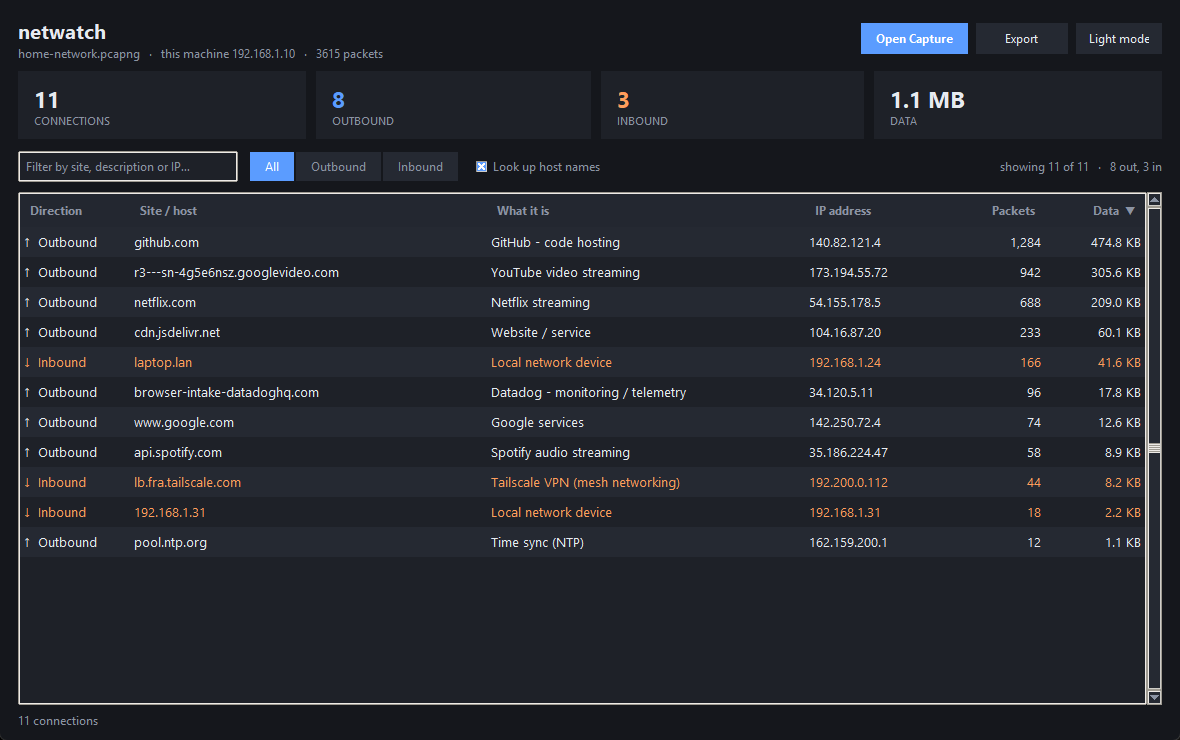
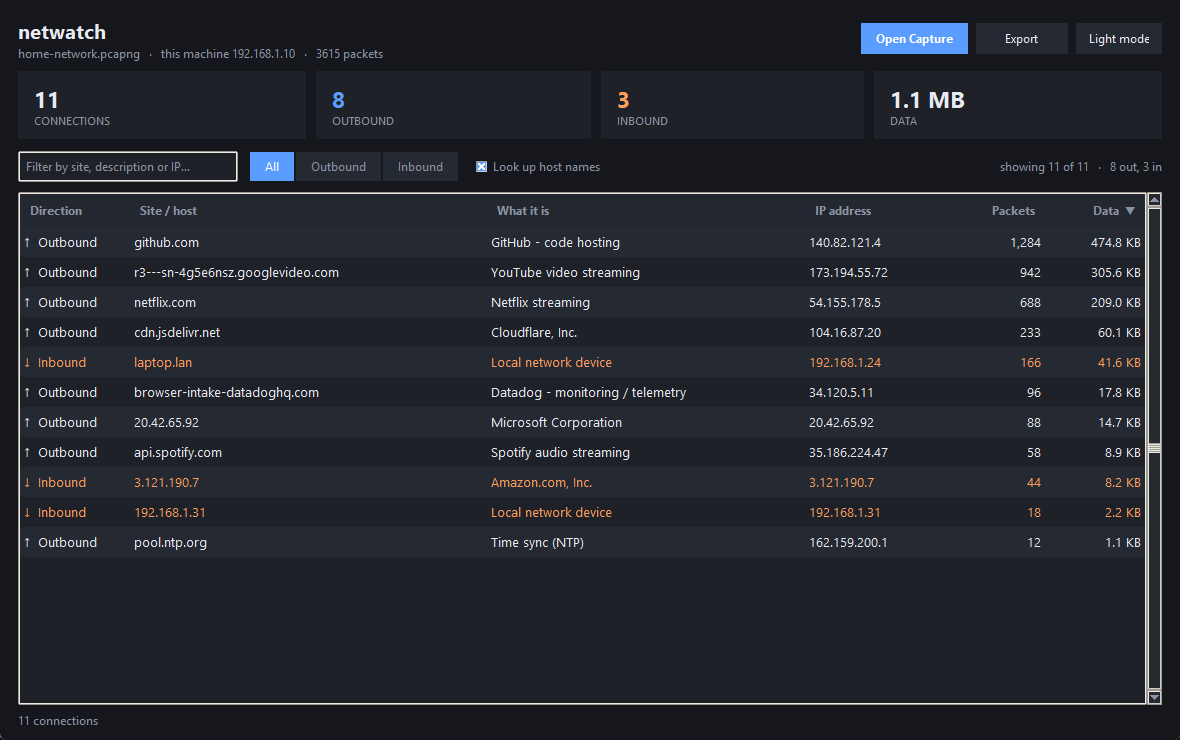
Name the organisation behind an address, via ASN lookup
The curated keyword table only recognises hosts someone thought to list,
and only when a hostname exists at all. Addresses with no useful name and
no PTR record read "Unknown host", which on a real capture was five rows
of thirteen -- including the one moving the most data.

asn_lookup.py resolves the owning organisation from an ASN database:

    160.79.104.10  -> Anthropic, PBC
    74.125.9.138   -> Google LLC
    20.42.65.92    -> Microsoft Corporation

On the sample capture this takes "Unknown host" from five rows to none.
It also improves hosts that did have names but no keyword match, where
the old fallback was the unhelpful "Website / service": catalog.gamepass.com
turns out to be Akamai, cdn.jsdelivr.net to be Cloudflare.

The keyword table still takes precedence, because it says what a host is
*for* -- "Datadog - monitoring / telemetry" beats the name of whoever owns
the address range.

Lookups are local, so no address leaves the machine and it works with no
network, which matters for an appliance. maxminddb and the database are
both optional: without either, descriptions fall back to exactly what they
were before, with a status message explaining how to enable them. The
database is git-ignored, since neither publisher permits redistribution --
`asn_lookup.py --fetch` downloads one. DB-IP's licence requires
attribution, which the README now carries.

Verified that PyInstaller bundles maxminddb, so the Windows build keeps
[…]

diff --git a/asn_lookup.py b/asn_lookup.py
@@ -1,0 +1,217 @@
+#!/usr/bin/env python3
+"""Name the organisation behind an IP address, offline.
+
+The curated keyword table in netwatch_core recognises hosts by name, but it can
+only cover what someone thought to list, and it needs a hostname in the first
+place. Plenty of addresses have neither a useful name nor a PTR record, and used
+to show up as "Unknown host". An ASN database fixes that: every routable address
+belongs to an autonomous system, and the AS has an owner.
+
+    160.79.104.10   -> Anthropic, PBC
+    74.125.9.138    -> Google LLC
+    140.82.114.25   -> GitHub, Inc.
+
+Lookups are local, so no address ever leaves the machine, and it works with no
+network at all -- which matters for a Pi appliance.
+
+Everything here degrades quietly: with no `maxminddb` module or no database file,
+lookups return nothing and netwatch falls back to its previous behaviour. Fetch a
+database with:
+
+    python asn_lookup.py --fetch
+
+Data is DB-IP's IP-to-ASN Lite, licensed CC-BY 4.0 -- see ATTRIBUTION below.
+MaxMind's GeoLite2-ASN.mmdb works too, if you already have one.
+"""
+
+from __future__ import annotations
+
+import gzip
+import os
+import shutil
+import sys
+import threading
+import urllib.request
+from datetime import date, timedelta
+
+ATTRIBUTION = "IP-to-ASN data by DB-IP (https://db-ip.com) — CC-BY 4.0"
+
+# Recognised database filenames, most preferred first.
+DB_FILENAMES = ("dbip-asn-lite.mmdb", "GeoLite2-ASN.mmdb", "dbip-asn.mmdb")
+
+# DB-IP publish a fresh free database each month.
+DBIP_URL = "https://download.db-ip.com/free/dbip-asn-lite-{ym}.mmdb.gz"
+
+_lock = threading.Lock()
+_reader = None            # opened maxminddb reader, or False once known bad
+_cache: dict[str, tuple[int, str] | None] = {}
+_status = "not initialised"
+
+
+def data_dir() -> str:
+    """Where netwatch keeps its own files."""
+    return os.path.join(os.path.expanduser("~"), ".netwatch")
+
+
+def search_paths() -> list[str]:
+    """Every place a database might reasonably live."""
+    here = os.path.dirname(os.path.abspath(
+        sys.executable if getattr(sys, "frozen", False) else __file__))
+    dirs = [data_dir(), here]
+    if os.name == "nt":
+        dirs.append(os.path.join(os.environ.get("PROGRAMDATA", r"C:\ProgramData"),
+                                 "netwatch"))
+    else:
+        dirs += ["/usr/share/GeoIP", "/var/lib/GeoIP", "/usr/local/share/GeoIP"]
+
+    paths = []
+    override = os.environ.get("NETWATCH_ASN_DB")
+    if override:
+        paths.append(override)          # explicit wins over everything
+    for d in dirs:
+        for name in DB_FILENAMES:
+            paths.append(os.path.join(d, name))
+    return paths
+
+
+def find_database() -> str | None:
+    for path in search_paths():
+        if path and os.path.isfile(path):
+            return path
+    return None
+
+
+def _open() -> object | None:
+    """Open the database once, remembering failure so we don't retry endlessly."""
+    global _reader, _status
+    if _reader is not None:
+        return _reader or None
+
+    try:
+        import maxminddb
+    except ImportError:
+        _reader = False
+        _status = ("maxminddb is not installed — ASN names unavailable "
+                   "(pip install maxminddb, or apt install python3-maxminddb)")
+        return None
+
+    path = find_database()
+    if not path:
+        _reader = False
+        _status = ("no ASN database found — run `python asn_lookup.py --fetch` "
+                   f"or put one in {data_dir()}")
+        return None
+    try:
+        _reader = maxminddb.open_database(path)
+        kind = _reader.metadata().database_type
+        _status = f"{kind} — {os.path.basename(path)}"
+    except Exception as e:                    # corrupt or unreadable file
+        _reader = False
+        _status = f"could not open {path}: {e}"
+        return None
+    return _reader
+
+
+def available() -> bool:
+    with _lock:
+        return _open() is not None
+
+
+def status() -> str:
+    with _lock:
+        _open()
+        return _status
+
+
+def lookup(ip: str) -> tuple[int, str] | None:
+    """(asn, organisation) for an address, or None if it can't be determined."""
+    if not ip:
+        return None
+    with _lock:
+        if ip in _cache:
+            return _cache[ip]
+        reader = _open()
+        result = None
+        if reader is not None:
+            try:
+                record = reader.get(ip)
+            except (ValueError, OSError):     # not an address the DB accepts
+                record = None
+            if isinstance(record, dict):
+                org = (record.get("autonomous_system_organization") or "").strip()
+                asn = record.get("autonomous_system_number")
+                if org:
+                    result = (int(asn) if asn else 0, org)
+        _cache[ip] = result
+        return result
+
+
+def organisation(ip: str) -> str:
+    """Just the owning organisation's name, or "" if unknown."""
+    found = lookup(ip)
+    return found[1] if found else ""
+
+
+# --------------------------------------------------------------------- fetching
+def fetch(dest_dir: str | None = None, months_back: int = 3) -> str:
+    """Download the current DB-IP ASN Lite database. Returns the file path.
+
+    The newest month is not always published yet, so this walks back a little.
+    """
+    dest_dir = dest_dir or data_dir()
+    os.makedirs(dest_dir, exist_ok=True)
+    target = os.path.join(dest_dir, "dbip-asn-lite.mmdb")
+
+    today = date.today().replace(day=1)
+    errors = []
+    for back in range(months_back):
+        month = today
+        for _ in range(back):
+            month = (month - timedelta(days=1)).replace(day=1)
+        url = DBIP_URL.format(ym=f"{month.year:04d}-{month.month:02d}")
+        try:
+            print(f"fetching {url}")
+            request = urllib.request.Request(
+                url, headers={"User-Agent": "netwatch"})
+            with urllib.request.urlopen(request, timeout=180) as response, \
+                    open(target + ".gz", "wb") as out:
+                shutil.copyfileobj(response, out)
+            with gzip.open(target + ".gz", "rb") as gz, open(target, "wb") as out:
+                shutil.copyfileobj(gz, out)
+            os.remove(target + ".gz")
+            size = os.path.getsize(target) / (1 << 20)
+            print(f"saved {target}  ({size:.1f} MB)")
+            print(ATTRIBUTION)
+            return target
+        except Exception as e:
+            errors.append(f"  {url}: {e}")
+    raise RuntimeError("could not download a database:\n" + "\n".join(errors))
+
+
+def main() -> None:
+    import argparse
+    ap = argparse.ArgumentParser(description=__doc__.split("\n")[0])
+    ap.add_argument("--fetch", action="store_true",
+                    help="download the current DB-IP ASN Lite database")
+    ap.add_argument("ips", nargs="*", help="addresses to look up")
+    args = ap.parse_args()
+
+    if args.fetch:
+        try:
+            fetch()
+        except RuntimeError as e:
+            sys.exit(str(e))
+        return
+
+    print(f"database: {status()}")
+    if args.ips:
+        print()
+        for ip in args.ips:
+            found = lookup(ip)
+            print(f"  {ip:<40} {found[1] + f'  (AS{found[0]})' if found else '-'}")
+    elif available():
+        print(ATTRIBUTION)
+
+
+if __name__ == "__main__":
+    main()

diff --git a/netwatch_core.py b/netwatch_core.py
@@ -24,16 +24,15 @@ import threading
 import time
 from collections import defaultdict
 
+import asn_lookup
+
 # Hide the console window tshark would otherwise flash on Windows.
 _NO_WINDOW = 0x08000000 if os.name == "nt" else 0
 
 socket.setdefaulttimeout(2)  # keep reverse-DNS snappy
 
+# Folder scanned for the newest capture when a front end is opened with no file.
 DROP_DIR = os.path.join(os.path.expanduser("~"), "Documents", "Captures")
-# Hide the console window tshark would otherwise flash on Windows.
-_NO_WINDOW = 0x08000000 if os.name == "nt" else 0
-
-socket.setdefaulttimeout(2)  # keep reverse-DNS snappy
 
 FIELDS = [
     "ip.src", "ip.dst", "ipv6.src", "ipv6.dst",
@@ -122,13 +121,25 @@ DESCRIPTIONS = [
 ]
 
 
-def describe(host: str, local: bool) -> str:
+def describe(host: str, local: bool, ip: str = "") -> str:
+    """Say what a host is, in plain language.
+
+    The keyword table comes first because it describes what a host is *for* --
+    "Datadog - monitoring / telemetry" is more use than the name of whoever owns
+    the address range. ASN data then covers everything the table misses, which is
+    most of the internet, and is the only thing that can name an address with no
+    hostname at all. Both are optional: with neither, this degrades to the
+    generic labels it always used.
+    """
     h = (host or "").lower()
     for needle, desc in DESCRIPTIONS:
         if needle in h:
             return desc
     if local:
         return "Local network device"
+    org = asn_lookup.organisation(ip) if ip else ""
+    if org:
+        return org
     if not host:
         return "Unknown host (no name)"
     return "Website / service"
@@ -241,7 +252,7 @@ def fill_names(rows: list[dict], budget: float = 8.0) -> bool:
         name = names.get(r["ip"], "")
         if name and not r["name"]:
             r["name"] = r["site"] = name
-            r["description"] = describe(name, r["local"])
+            r["description"] = describe(name, r["local"], r["ip"])
             changed = True
     return changed
 
@@ -351,7 +362,7 @@ def analyze(capture: str, resolve: bool = True) -> dict:
         local = is_private(ip)
         rows.append({
             "direction": direction, "site": name or ip, "ip": ip, "name": name,
-            "description": describe(name, local),
+            "description": describe(name, local, ip),
             "packets": a["packets"], "bytes": a["bytes"], "local": local,
         })
     if resolve:

diff --git a/netwatch_live.py b/netwatch_live.py
@@ -252,7 +252,7 @@ class LiveTracker:
                 rows.append({
                     "direction": conn["direction"],
                     "site": name or conn["ip"], "ip": conn["ip"],
-                    "description": describe(name, local),
+                    "description": describe(name, local, conn["ip"]),
                     "bytes": conn["bytes"], "packets": conn["packets"],
                     "rate": delta / elapsed if elapsed > 0 else 0.0,
                     "idle": time.monotonic() - conn["last"]})

diff --git a/connection_viewer.py b/connection_viewer.py
@@ -520,7 +520,7 @@ class App:
                 name = names.get(r["ip"], "")
                 if name and not r["name"]:
                     r["name"] = r["site"] = name
-                    r["description"] = describe(name, r["local"])
+                    r["description"] = describe(name, r["local"], r["ip"])
                     found += 1
             if found:
                 self.refresh()

diff --git a/README.md b/README.md
@@ -30,6 +30,7 @@ whoever sends the opening SYN started the connection.
 | `netwatch_live.py` | **Live terminal view** — watch connections form in real time, no display needed. Works over SSH on a headless Pi. |
 | `connection_viewer.py` | **Desktop app** with dark and light themes: a sortable, filterable table of inbound/outbound connections, each host tagged with a plain-English description. Builds into a standalone `.exe`. |
 | `netwatch_core.py` | Shared analysis: direction, host names, descriptions. No GUI imports, so it works headless. |
+| `asn_lookup.py` | Names the organisation behind an address, offline, so bare IPs stop reading "Unknown host". |
 | `analyze_capture.py` | CLI: hosts grouped by root domain, allowlist flagging, optional GeoIP, CSV export. |
 | `pcap_report.py` | Prints a simple two-section (outbound / inbound) text report. |
 | `analyze_gui.py` | An earlier, fuller GUI (allowlist, GeoIP, flagged-only). |
@@ -42,8 +43,22 @@ whoever sends the opening SYN started the connection.
 - **Tkinter**, for the GUI. It ships with Python on Windows and macOS; on
   Debian / Raspberry Pi OS install it with `sudo apt install python3-tk`.
 
-No third-party Python packages are required — everything runs on the standard
-library, which keeps installation on a Raspberry Pi to the two `apt` lines above.
+Optional, but strongly recommended:
+
+- **`maxminddb`** plus an ASN database, which is what lets netwatch name the
+  organisation behind an address that has no hostname. Without it those rows read
+  "Unknown host"; with it they read "Google LLC" or "Anthropic, PBC". Lookups are
+  local — no address ever leaves the machine.
+
+```bash
+sudo apt install python3-maxminddb     # or: pip install maxminddb
+python asn_lookup.py --fetch           # downloads ~10 MB into ~/.netwatch/
+python asn_lookup.py 8.8.8.8           # check it works
+```
+
+netwatch also picks up an existing `GeoLite2-ASN.mmdb`, and honours
+`NETWATCH_ASN_DB=/path/to/db.mmdb`. Everything degrades quietly if the library or
+database is missing.
 
 ## Usage
 
@@ -179,4 +194,14 @@ built-in keyword table — nothing leaves your machine unless you explicitly pas
 
 ## License
 
-[MIT](LICENSE)
+netwatch itself is [MIT](LICENSE).
+
+The optional ASN database is not part of this repository and is not redistributed
+by it — `asn_lookup.py --fetch` downloads it from the publisher. If you use
+DB-IP's IP-to-ASN Lite database, their licence requires attribution:
+
+> IP-to-ASN data by [DB-IP](https://db-ip.com) — licensed under
+> [CC-BY 4.0](https://creativecommons.org/licenses/by/4.0/).
+
+MaxMind's GeoLite2-ASN works as an alternative and carries its own
+[end-user licence](https://www.maxmind.com/en/geolite2/eula).
